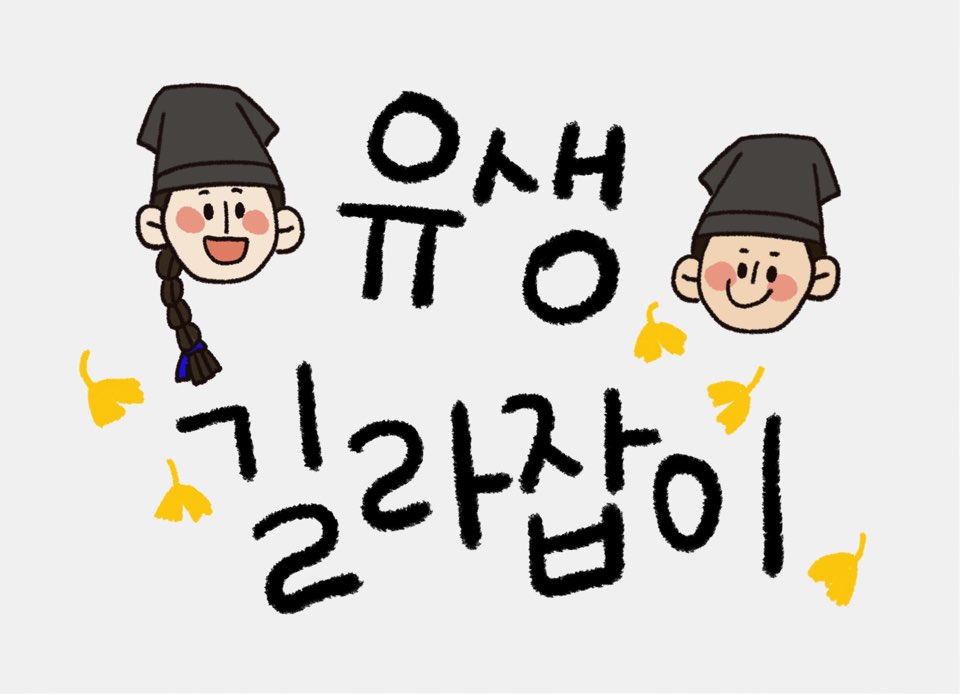
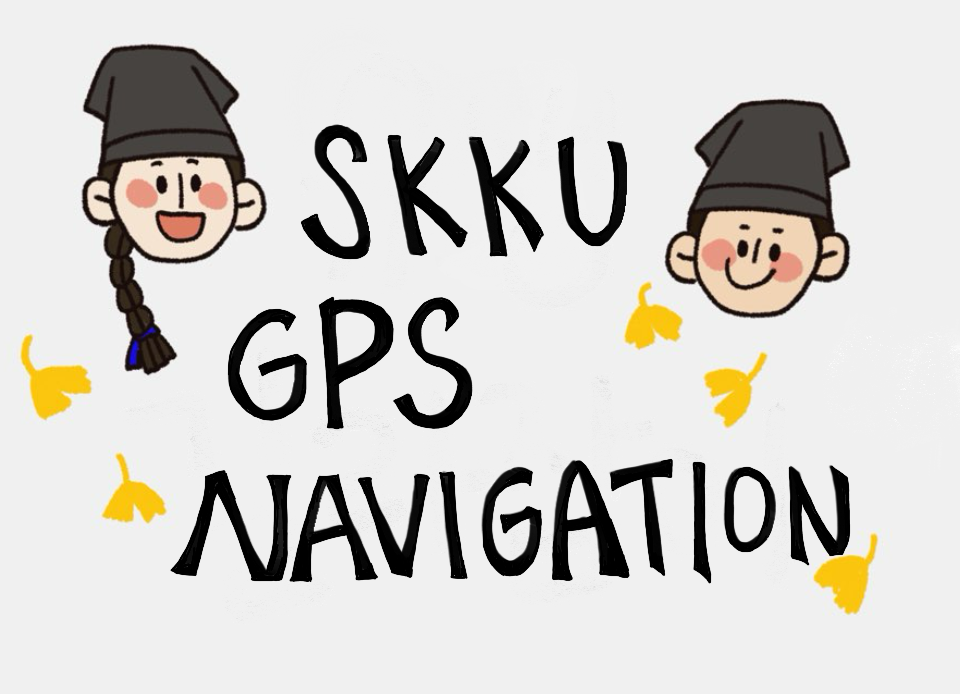
Add files via upload

Changed region(s): [[0.0, 0.0605, 0.9375, 0.9078]]

diff --git a/pyqt.py b/pyqt.py
@@ -196,10 +196,10 @@ class map_myeongryun(object):
 
     def retranslateUi(self, Dialog):
         _translate = QtCore.QCoreApplication.translate
-        Dialog.setWindowTitle(_translate("Dialog", "유생 길라잡이"))
-        self.pushButton.setText(_translate("Dialog", "시작 위치"))
-        self.pushButton_2.setText(_translate("Dialog", "도착 위치"))
-        self.pushButton_3.setText(_translate("Dialog", "경로 탐색"))
+        Dialog.setWindowTitle(_translate("Dialog", "SKKU GPS Navigation System"))
+        self.pushButton.setText(_translate("Dialog", "Starting Location"))
+        self.pushButton_2.setText(_translate("Dialog", "Destination"))
+        self.pushButton_3.setText(_translate("Dialog", "Find Path"))
 
 
 class m_input_start_point(object):
@@ -274,11 +274,11 @@ class m_input_start_point(object):
 
     def retranslateUi(self, Dialog):
         _translate = QtCore.QCoreApplication.translate
-        Dialog.setWindowTitle(_translate("Dialog", "유생 길라잡이"))
-        self.pushButton.setText(_translate("Dialog", "정문"))
-        self.pushButton_2.setText(_translate("Dialog", "철문"))
-        self.pushButton_3.setText(_translate("Dialog", "쪽문"))
-        self.pushButton_4.setText(_translate("Dialog", "후문"))
+        Dialog.setWindowTitle(_translate("Dialog", "SKKU GPS Navigation System"))
+        self.pushButton.setText(_translate("Dialog", "Main Entrance (정문)"))
+        self.pushButton_2.setText(_translate("Dialog", "Iron Entrance (철문)"))
+        self.pushButton_3.setText(_translate("Dialog", "Side Entrance (쪽문)"))
+        self.pushButton_4.setText(_translate("Dialog", "Back Entrance (후문)"))
 
 
 class m_input_destination_point(object):
@@ -346,10 +346,10 @@ class m_input_destination_point(object):
 
     def retranslateUi(self, Dialog):
         _translate = QtCore.QCoreApplication.translate
-        Dialog.setWindowTitle(_translate("Dialog", "유생 길라잡이"))
-        self.pushButton_2.setText(_translate("Dialog", "강의실 찾기"))
-        self.pushButton_3.setText(_translate("Dialog", "편의 시설 찾기"))
-        self.pushButton.setText(_translate("Dialog", "율전 캠퍼스"))
+        Dialog.setWindowTitle(_translate("Dialog", "SKKU GPS Navigation System"))
+        self.pushButton_2.setText(_translate("Dialog", "Find Classrooms"))
+        self.pushButton_3.setText(_translate("Dialog", "Find Amenities"))
+        self.pushButton.setText(_translate("Dialog", "Suwon Campus"))
 
 
 class m_select_classroom(object):
@@ -400,9 +400,9 @@ class m_select_classroom(object):
 
     def retranslateUi(self, Dialog):
         _translate = QtCore.QCoreApplication.translate
-        Dialog.setWindowTitle(_translate("Dialog", "유생 길라잡이"))
-        self.pushButton_2.setText(_translate("Dialog", "강의실 번호로 찾기"))
-        self.pushButton.setText(_translate("Dialog", "강의실 명칭으로 찾기"))
+        Dialog.setWindowTitle(_translate("Dialog", "SKKU GPS Navigation System"))
+        self.pushButton_2.setText(_translate("Dialog", "Search Classroom by Number"))
+        self.pushButton.setText(_translate("Dialog", "Search Classroom by Name"))
 
 
 class m_classroom_as_number(object):
@@ -504,8 +504,8 @@ class m_classroom_as_number(object):
 
     def retranslateUi(self, Dialog):
         _translate = QtCore.QCoreApplication.translate
-        Dialog.setWindowTitle(_translate("Dialog", "유생 길라잡이"))
-        self.pushButton.setText(_translate("Dialog", "도착지 설정"))
+        Dialog.setWindowTitle(_translate("Dialog", "SKKU GPS Navigation System"))
+        self.pushButton.setText(_translate("Dialog", "Set Destination"))
 
 
 class m_classroom_as_name(object):
@@ -620,7 +620,7 @@ class m_classroom_as_name(object):
 
     def retranslateUi(self, Dialog):
         _translate = QtCore.QCoreApplication.translate
-        Dialog.setWindowTitle(_translate("Dialog", "유생 길라잡이"))
+        Dialog.setWindowTitle(_translate("Dialog", "SKKU GPS Navigation System"))
         self.radioButton.setText(_translate("Dialog", "국제관"))
         self.radioButton_2.setText(_translate("Dialog", "경영관"))
         self.radioButton_3.setText(_translate("Dialog", "다산경제관"))
@@ -631,7 +631,7 @@ class m_classroom_as_name(object):
         self.radioButton_8.setText(_translate("Dialog", "수선관 별관"))
         self.radioButton_9.setText(_translate("Dialog", "법학관"))
         self.radioButton_10.setText(_translate("Dialog", "600주년 기념관"))
-        self.pushButton.setText(_translate("Dialog", "도착지 설정"))
+        self.pushButton.setText(_translate("Dialog", "Set Destination"))
 
 
 class m_find_amenities(object):
@@ -746,7 +746,7 @@ class m_find_amenities(object):
 
     def retranslateUi(self, Dialog):
         _translate = QtCore.QCoreApplication.translate
-        Dialog.setWindowTitle(_translate("Dialog", "유생 길라잡이"))
+        Dialog.setWindowTitle(_translate("Dialog", "SKKU GPS Navigation System"))
         self.radioButton.setText(_translate("Dialog", "교수회관"))
         self.radioButton_2.setText(_translate("Dialog", "편의점 경영"))
         self.radioButton_3.setText(_translate("Dialog", "편의점 인문"))
@@ -757,7 +757,7 @@ class m_find_amenities(object):
         self.radioButton_8.setText(_translate("Dialog", "ATM 600주년"))
         self.radioButton_9.setText(_translate("Dialog", "ATM 국제관"))
         self.radioButton_10.setText(_translate("Dialog", "ATM 중앙도서관"))
-        self.pushButton.setText(_translate("Dialog", "도착지 설정"))
+        self.pushButton.setText(_translate("Dialog", "Set Destination"))
 
 
 class map_yuljeon(object):
@@ -818,10 +818,10 @@ class map_yuljeon(object):
 
     def retranslateUi(self, Dialog):
         _translate = QtCore.QCoreApplication.translate
-        Dialog.setWindowTitle(_translate("Dialog", "유생 길라잡이"))
-        self.pushButton.setText(_translate("Dialog", "시작 위치"))
-        self.pushButton_2.setText(_translate("Dialog", "도착 위치"))
-        self.pushButton_3.setText(_translate("Dialog", "경로 탐색"))
+        Dialog.setWindowTitle(_translate("Dialog", "SKKU GPS Navigation System"))
+        self.pushButton.setText(_translate("Dialog", "Starting Location"))
+        self.pushButton_2.setText(_translate("Dialog", "Destination"))
+        self.pushButton_3.setText(_translate("Dialog", "Find Path"))
 
 
 class y_input_start_point(object):
@@ -870,9 +870,9 @@ class y_input_start_point(object):
 
     def retranslateUi(self, Dialog):
         _translate = QtCore.QCoreApplication.translate
-        Dialog.setWindowTitle(_translate("Dialog", "유생 길라잡이"))
-        self.pushButton.setText(_translate("Dialog", "정문"))
-        self.pushButton_2.setText(_translate("Dialog", "후문"))
+        Dialog.setWindowTitle(_translate("Dialog", "SKKU GPS Navigation System"))
+        self.pushButton.setText(_translate("Dialog", "Main Entrance (정문)"))
+        self.pushButton_2.setText(_translate("Dialog", "Back Entrance (후문)"))
 
 
 class y_input_destination_point(object):
@@ -940,10 +940,10 @@ class y_input_destination_point(object):
 
     def retranslateUi(self, Dialog):
         _translate = QtCore.QCoreApplication.translate
-        Dialog.setWindowTitle(_translate("Dialog", "유생 길라잡이"))
-        self.pushButton_2.setText(_translate("Dialog", "강의실 찾기"))
-        self.pushButton_3.setText(_translate("Dialog", "편의 시설 찾기"))
-        self.pushButton.setText(_translate("Dialog", "명륜 캠퍼스"))
+        Dialog.setWindowTitle(_translate("Dialog", "SKKU GPS Navigation System"))
+        self.pushButton_2.setText(_translate("Dialog", "Find Classrooms"))
+        self.pushButton_3.setText(_translate("Dialog", "Find Amenities"))
+        self.pushButton.setText(_translate("Dialog", "Hyehwa Campus"))
 
 
 class y_select_classroom(object):
@@ -994,9 +994,9 @@ class y_select_classroom(object):
 
     def retranslateUi(self, Dialog):
         _translate = QtCore.QCoreApplication.translate
-        Dialog.setWindowTitle(_translate("Dialog", "유생 길라잡이"))
-        self.pushButton.setText(_translate("Dialog", "강의실 번호로 찾기"))
-        self.pushButton_2.setText(_translate("Dialog", "강의실 명칭으로 찾기"))
+        Dialog.setWindowTitle(_translate("Dialog", "SKKU GPS Navigation System"))
+        self.pushButton.setText(_translate("Dialog", "Search Classroom by Number"))
+        self.pushButton_2.setText(_translate("Dialog", "Search Classroom by Name"))
 
 
 class y_classroom_as_number(object):
@@ -1129,8 +1129,8 @@ class y_classroom_as_number(object):
 
     def retranslateUi(self, Dialog):
         _translate = QtCore.QCoreApplication.translate
-        Dialog.setWindowTitle(_translate("Dialog", "유생 길라잡이"))
-        self.pushButton.setText(_translate("Dialog", "도착지 설정"))
+        Dialog.setWindowTitle(_translate("Dialog", "SKKU GPS Navigation System"))
+        self.pushButton.setText(_translate("Dialog", "Set Destination"))
 
 
 class y_classroom_as_name(object):
@@ -1272,7 +1272,7 @@ class y_classroom_as_name(object):
 
     def retranslateUi(self, Dialog):
         _translate = QtCore.QCoreApplication.translate
-        Dialog.setWindowTitle(_translate("Dialog", "유생 길라잡이"))
+        Dialog.setWindowTitle(_translate("Dialog", "SKKU GPS Navigation System"))
         self.radioButton.setText(_translate("Dialog", "의학관"))
         self.radioButton_2.setText(_translate("Dialog", "약학관"))
         self.radioButton_3.setText(_translate("Dialog", "반도체관"))
@@ -1483,7 +1483,7 @@ class y_find_amenities(object):
 
     def retranslateUi(self, Dialog):
         _translate = QtCore.QCoreApplication.translate
-        Dialog.setWindowTitle(_translate("Dialog", "유생 길라잡이"))
+        Dialog.setWindowTitle(_translate("Dialog", "SKKU GPS Navigation System"))
         self.radioButton.setText(_translate("Dialog", "의대 대강당"))
         self.radioButton_2.setText(_translate("Dialog", "학생회관"))
         self.radioButton_3.setText(_translate("Dialog", "복지회관"))
@@ -1563,13 +1563,13 @@ class m_move(object):
         if (route.peek() == user_location.peek()):
             route.pop()
             if (user_location.peek() == destination):
-                print("목적지에 도착했습니다")
-                print("안내를 종료합니다")
+                print("Arrived at the Destination.")
+                print("Terminating your navigation.")
                 return
             self.move_loc(route, user_location)
             self.is_follow(route, user_location)
         else:
-            print("경로를 이탈했습니다")
+            print("You are off the course.")
             now_location = user_location.peek()
             user_location.claer()
             self.find_way(now_location[0], now_location[1], destX, destY, startC, destC)
@@ -1804,10 +1804,10 @@ class m_move(object):
             self.show_time_hour(hour, minute, second)
 
     def show_time(self, minute, second):
-        QMessageBox.about(None, "유생 길라잡이", "예상 시간은 %d분 %d초입니다." % (minute, second))
+        QMessageBox.about(None, "SKKU GPS Navigation System", "Anticipated Time for Travel is %dmin(s) %dsec(s)." % (minute, second))
 
     def show_time_hour(self, hour, minute, second):
-        QMessageBox.about(None, "유생 길라잡이", "예상 시간은 %d시간 %d분 %d초입니다." % (hour, minute, second))
+        QMessageBox.about(None, "SKKU GPS Navigation System", "Anticipated Time for Travel is %dhour(s) %dmin(s) %dsec(s)." % (hour, minute, second))
 
     def show_start_point(self):
         global user_loc
@@ -2064,14 +2064,14 @@ class m_move(object):
 
     def retranslateUi(self, Dialog):
         _translate = QtCore.QCoreApplication.translate
-        Dialog.setWindowTitle(_translate("Dialog", "유생 길라잡이"))
+        Dialog.setWindowTitle(_translate("Dialog", "SKKU GPS Navigation System"))
         self.pushButton.setText(_translate("Dialog", "▲"))
         self.pushButton_3.setText(_translate("Dialog", "▼"))
         self.pushButton_4.setText(_translate("Dialog", "▶"))
         self.pushButton_5.setText(_translate("Dialog", "◀"))
-        self.pushButton_2.setText(_translate("Dialog", "안내 종료"))
-        self.pushButton_6.setText(_translate("Dialog", "경로 출력"))
-        self.pushButton_7.setText(_translate("Dialog", "셔틀 탑승"))
+        self.pushButton_2.setText(_translate("Dialog", "End"))
+        self.pushButton_6.setText(_translate("Dialog", "Show Path"))
+        self.pushButton_7.setText(_translate("Dialog", "Shuttle"))
 
 
 class y_move(object):
@@ -2157,9 +2157,9 @@ class y_move(object):
 
     def print_shuttle_bus_table(self):
         if startC == destC:
-            QMessageBox.about(None, "유생 길라잡이", "같은 캠퍼스 내 이동 중입니다.\n프로그램이 종료됩니다.")
+            QMessageBox.about(None, "SKKU GPS Navigation System", "같은 캠퍼스 내 이동 중입니다.\n프로그램이 종료됩니다.")
         elif startC == 1 and destC == 2:
-            QMessageBox.about(None, "유생 길라잡이", "이미 셔틀버스를 탑승하셨습니다.\n프로그램이 종료됩니다.")
+            QMessageBox.about(None, "SKKU GPS Navigation System", "이미 셔틀버스를 탑승하셨습니다.\n프로그램이 종료됩니다.")
         else:
             self.suttle_timetable()
 
@@ -2372,10 +2372,10 @@ class y_move(object):
             self.show_time_hour(hour, minute, second)
 
     def show_time(self, minute, second):
-        QMessageBox.about(None, "유생 길라잡이", "예상 시간은 %d분 %d초입니다." % (minute, second))
+        QMessageBox.about(None, "SKKU GPS Navigation System", "Anticipated Time for Travel is %dmin(s) %dsec(s)." % (minute, second))
 
     def show_time_hour(self, hour, minute, second):
-        QMessageBox.about(None, "유생 길라잡이", "예상 시간은 %d시간 %d분 %d초입니다." % (hour, minute, second))
+        QMessageBox.about(None, "SKKU GPS Navigation System", "Anticipated Time for Travel is %dhour(s) %dmin(s) %dsec(s)." % (hour, minute, second))
 
     def show_start_point(self):
         global user_loc
@@ -2648,14 +2648,14 @@ class y_move(object):
 
     def retranslateUi(self, Dialog):
         _translate = QtCore.QCoreApplication.translate
-        Dialog.setWindowTitle(_translate("Dialog", "유생 길라잡이"))
-        self.pushButton_2.setText(_translate("Dialog", "안내 종료"))
+        Dialog.setWindowTitle(_translate("Dialog", "SKKU GPS Navigation System"))
+        self.pushButton_2.setText(_translate("Dialog", "End"))
         self.pushButton_3.setText(_translate("Dialog", "▼"))
         self.pushButton_4.setText(_translate("Dialog", "▶"))
         self.pushButton.setText(_translate("Dialog", "▲"))
         self.pushButton_5.setText(_translate("Dialog", "◀"))
-        self.pushButton_6.setText(_translate("Dialog", "경로 출력"))
-        self.pushButton_7.setText(_translate("Dialog", "셔틀 탑승"))
+        self.pushButton_6.setText(_translate("Dialog", "Show Path"))
+        self.pushButton_7.setText(_translate("Dialog", "Shuttle"))
 
 class campus_move(object):
     def suttle_move(self):
@@ -2695,7 +2695,7 @@ class campus_move(object):
 
     def retranslateUi(self, Dialog):
         _translate = QtCore.QCoreApplication.translate
-        Dialog.setWindowTitle(_translate("Dialog", "유생 길라잡이"))
+        Dialog.setWindowTitle(_translate("Dialog", "SKKU GPS Naviagation System"))
         self.pushButton.setText(_translate("Dialog", "캠퍼스 이동"))
 
 
@@ -2753,10 +2753,10 @@ class Ui_Dialog(object):
 
     def retranslateUi(self, Dialog):
         _translate = QtCore.QCoreApplication.translate
-        Dialog.setWindowTitle(_translate("Dialog", "유생 길라잡이"))
-        self.pushButton_3.setText(_translate("Dialog", "명륜"))
-        self.pushButton_2.setText(_translate("Dialog", "율전"))
-        self.pushButton.setText(_translate("Dialog", "exit"))
+        Dialog.setWindowTitle(_translate("Dialog", "SKKU GPS Navigation System"))
+        self.pushButton_3.setText(_translate("Dialog", "Hyehwa Campus"))
+        self.pushButton_2.setText(_translate("Dialog", "Suwon Campus"))
+        self.pushButton.setText(_translate("Dialog", "Exit"))
 
 
 if __name__ == "__main__":
